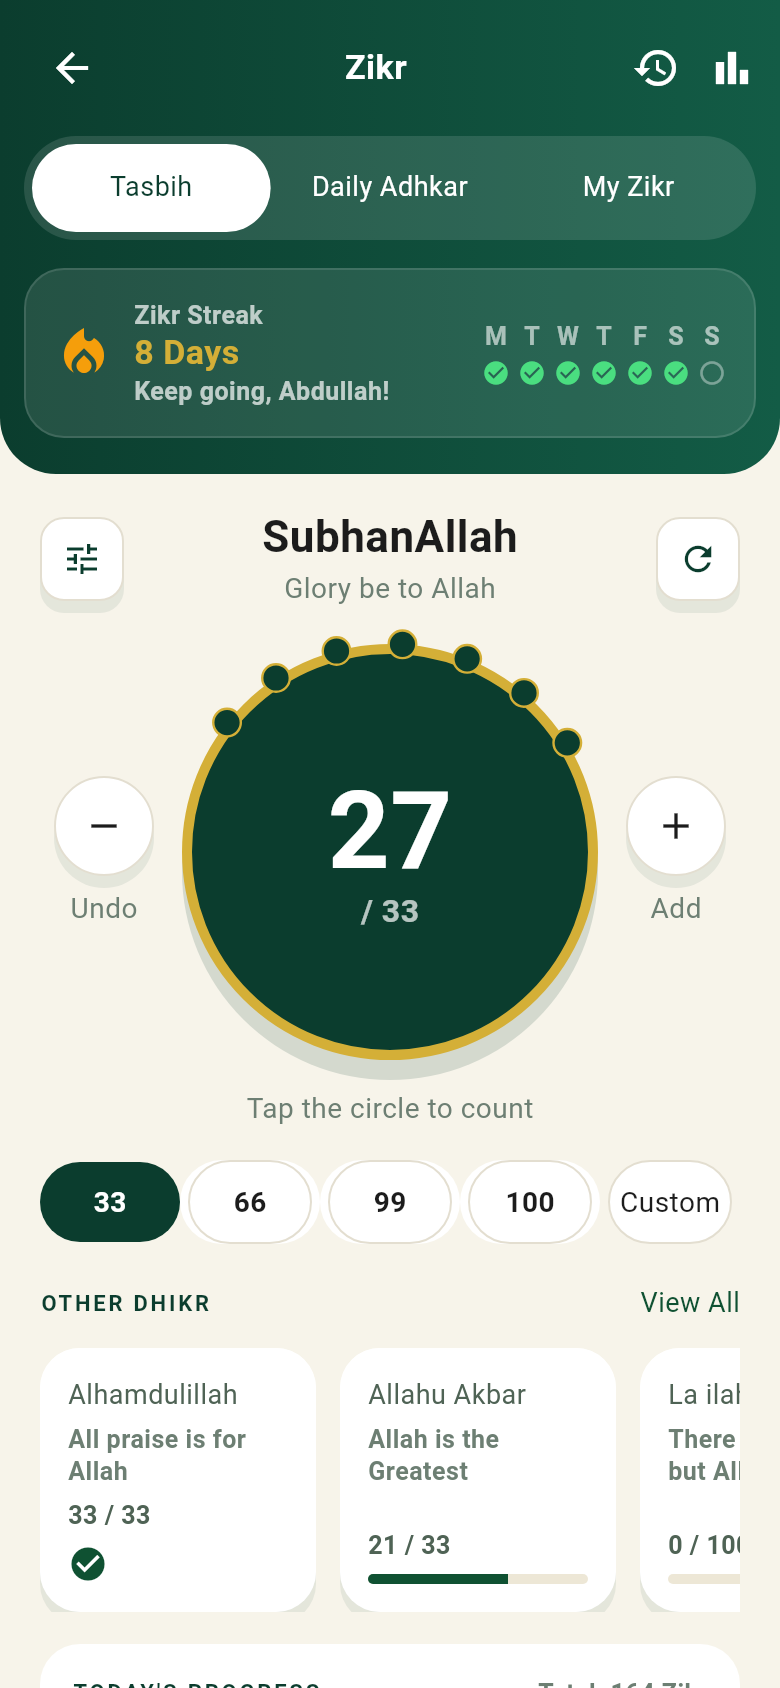
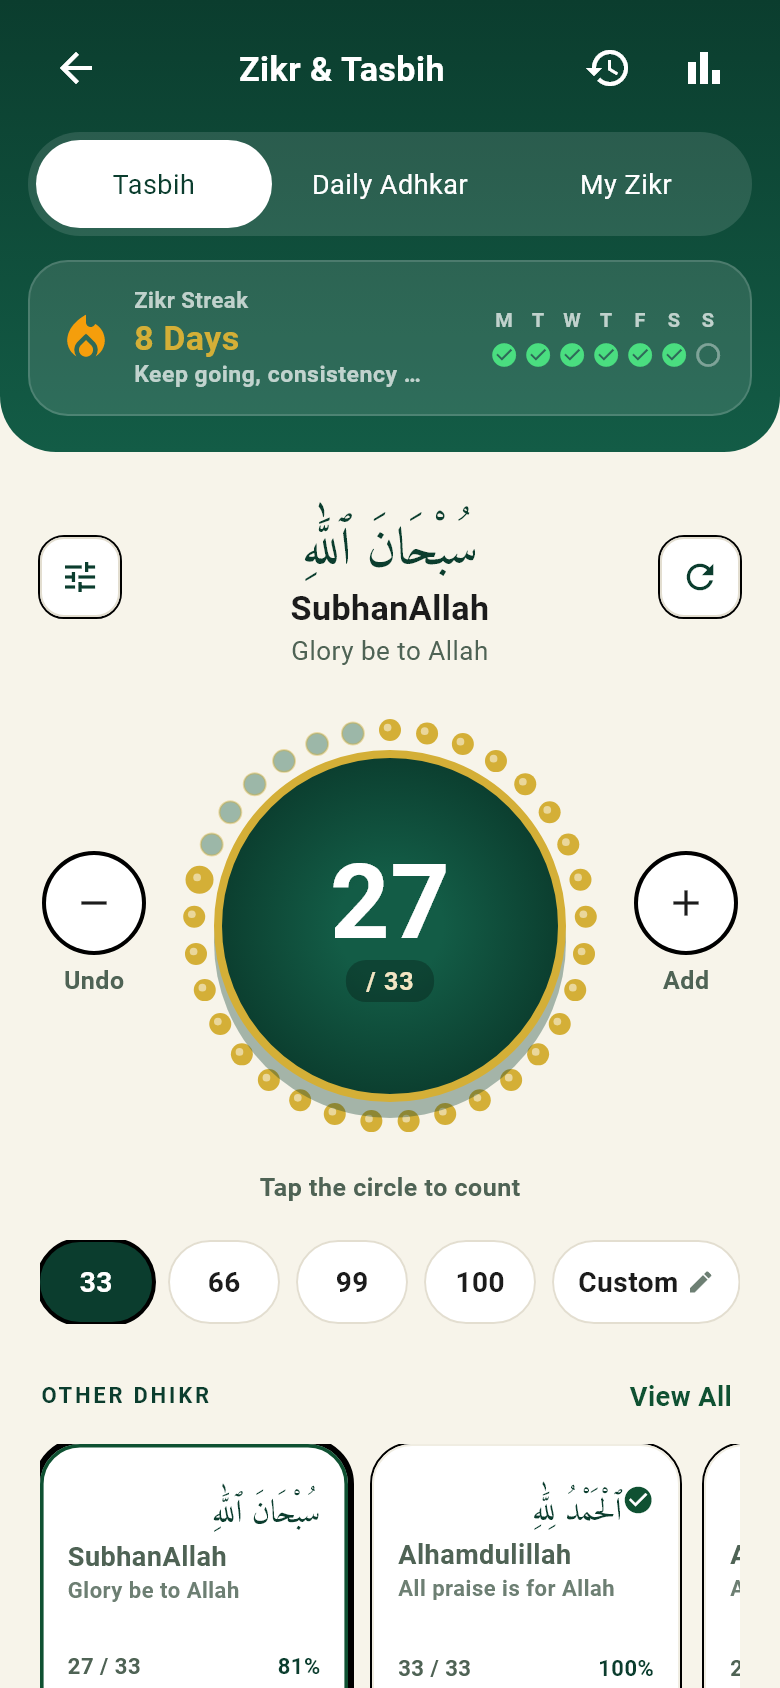
Polish target chips sizing and update golden preview for Zikr Tasbih screen

diff --git a/lib/screens/worship/zikr_tasbih_screen.dart b/lib/screens/worship/zikr_tasbih_screen.dart
@@ -1064,7 +1064,7 @@ class _ZikrTasbihScreenState extends State<ZikrTasbihScreen>
           onTap: () => _setTarget(t),
           borderRadius: BorderRadius.circular(NoorRadius.chip),
           child: Container(
-            width: 72,
+            width: 56,
             padding: const EdgeInsets.symmetric(vertical: 10),
             alignment: Alignment.center,
             decoration: BoxDecoration(
@@ -1095,7 +1095,7 @@ class _ZikrTasbihScreenState extends State<ZikrTasbihScreen>
         onTap: _openCustomTargetDialog,
         borderRadius: BorderRadius.circular(NoorRadius.chip),
         child: Container(
-          padding: const EdgeInsets.symmetric(horizontal: 16, vertical: 10),
+          padding: const EdgeInsets.symmetric(horizontal: 12, vertical: 10),
           alignment: Alignment.center,
           decoration: BoxDecoration(
             borderRadius: BorderRadius.circular(NoorRadius.chip),
